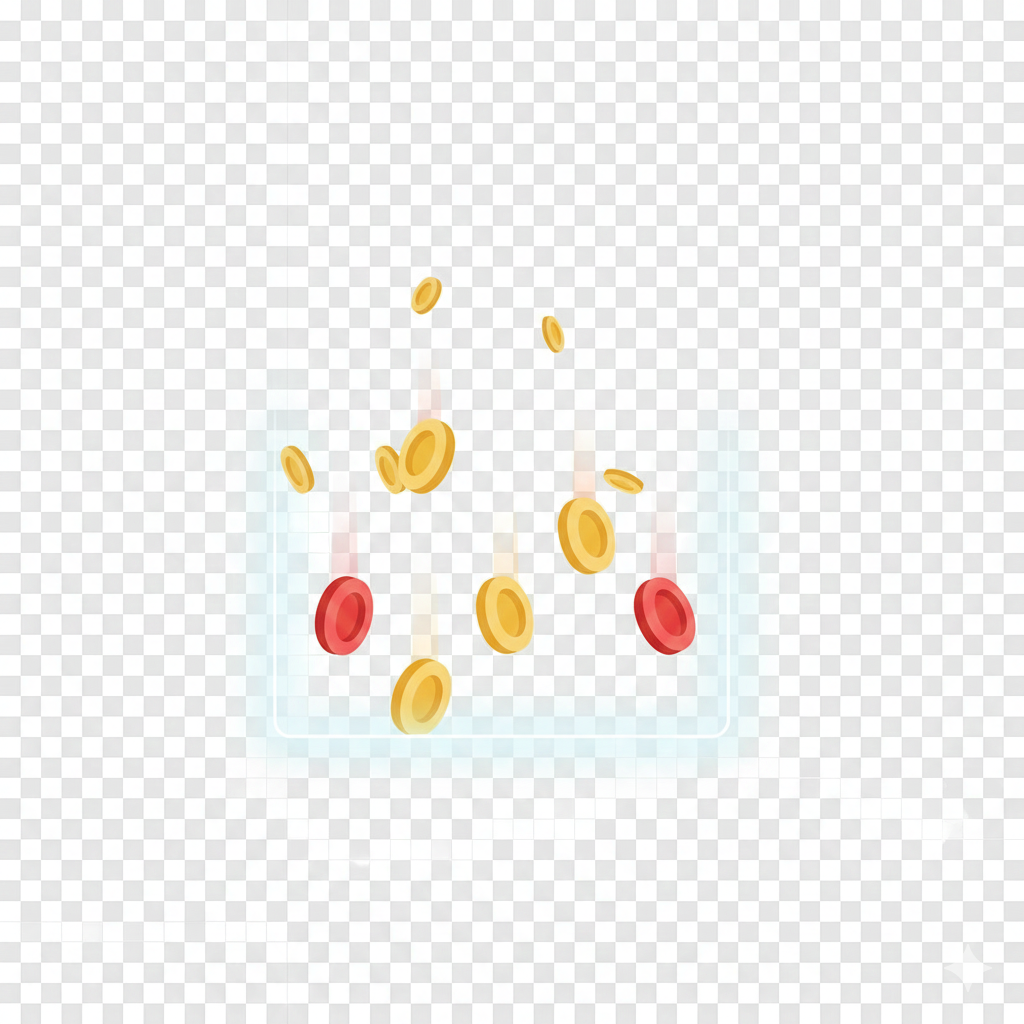
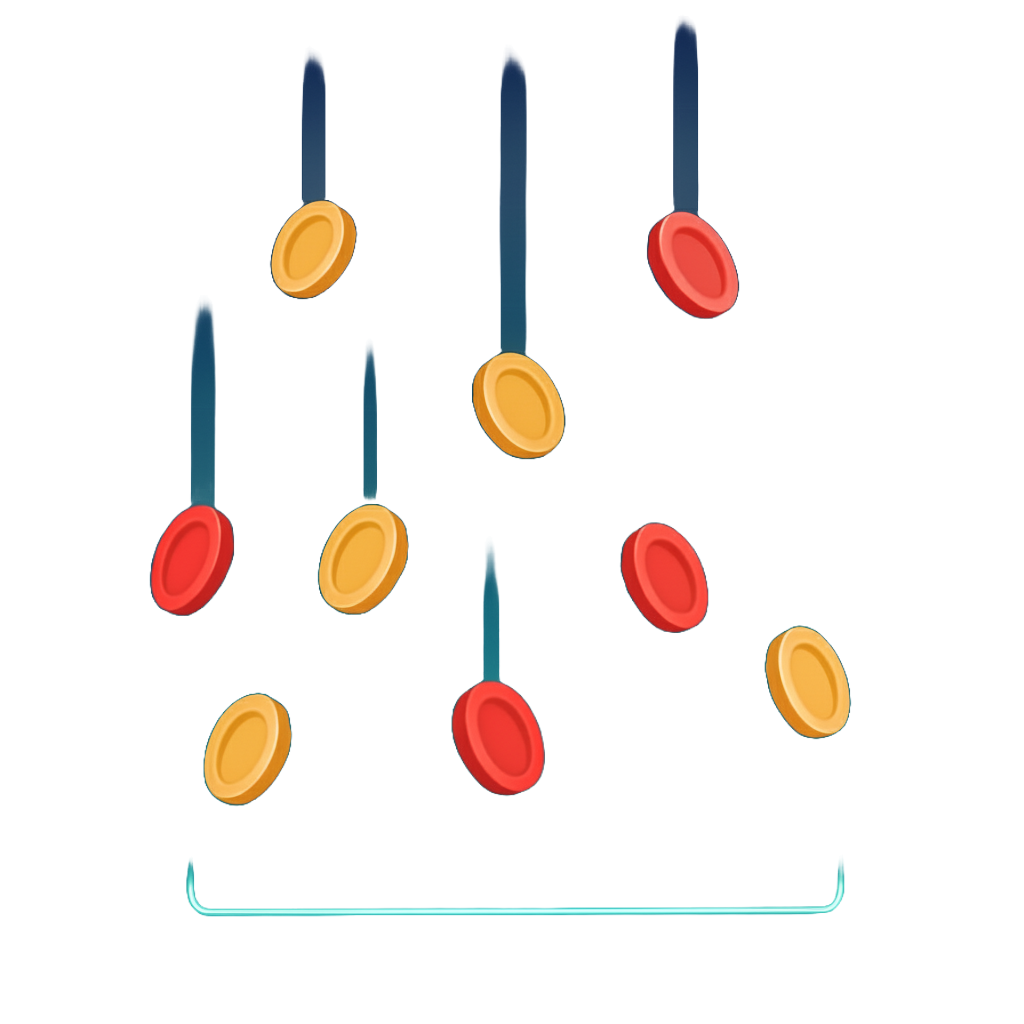
feat:  onbording fixed

diff --git a/lib/app/presentations/onboarding/view/onboarding_view.dart b/lib/app/presentations/onboarding/view/onboarding_view.dart
@@ -1,15 +1,95 @@
-import 'package:connect_four/core/extensions/asset_extension.dart';
 import 'package:flutter/material.dart';
 
-class OnboardingView extends StatelessWidget {
+import 'package:connect_four/app/common/widget/text_title.dart';
+import 'package:connect_four/app/presentations/onboarding/widget/elevated_button_widget.dart';
+import 'package:connect_four/app/presentations/onboarding/widget/page_view_dots.dart';
+import 'package:connect_four/app/data/models/onboardingItems/onboarding_data.dart';
+import 'package:connect_four/core/extensions/asset_extension.dart';
+
+class OnboardingView extends StatefulWidget {
   const OnboardingView({super.key});
+
+  @override
+  State<OnboardingView> createState() => _OnboardingViewState();
+}
+
+class _OnboardingViewState extends State<OnboardingView> {
+  final PageController _pageController = PageController();
+
+  void nextPage() {
+    if (_pageController.page! < onboardingItems.length - 1) {
+      _pageController.nextPage(
+        duration: const Duration(milliseconds: 300),
+        curve: Curves.easeInOut,
+      );
+    } else {
+      // TODO: Home / Login geçişi
+    }
+  }
+
+  @override
+  void dispose() {
+    _pageController.dispose();
+    super.dispose();
+  }
 
   @override
   Widget build(BuildContext context) {
     return Scaffold(
       body: Stack(
         children: [
-          Positioned.fill(child: Image.asset(AssetImages.background.path)),
+          /// BACKGROUND
+          Positioned.fill(
+            child: Image.asset(
+              AssetImages.image.path(AssetType.png),
+              fit: BoxFit.cover,
+            ),
+          ),
+
+          /// PAGE VIEW
+          PageView.builder(
+            controller: _pageController,
+            itemCount: onboardingItems.length,
+            itemBuilder: (context, index) {
+              final item = onboardingItems[index];
+
+              return Column(
+                mainAxisAlignment: MainAxisAlignment.center,
+                children: [
+                  TextTitle(title: item.text),
+                  const SizedBox(height: 60),
+                 SizedBox(
+  width: 240,
+  height: 240,
+  child: FittedBox(
+    fit: BoxFit.contain,
+    child: Image.asset(
+      item.image.path(AssetType.png),fit: BoxFit.contain,           // ← önemli
+    alignment: Alignment.center,
+    ),
+  ),
+),
+
+                ],
+              );
+            },
+          ),
+
+          /// BOTTOM CONTROLS
+          Positioned(
+            bottom: 50,
+            left: 0,
+            right: 0,
+            child: Column(
+              children: [
+                PageViewDots(pageController: _pageController),
+                const SizedBox(height: 60),
+                ElevatedButtonWidget(
+                  onPressed: nextPage,
+                ),
+              ],
+            ),
+          ),
         ],
       ),
     );

diff --git a/lib/app/presentations/onboarding/widget/page_view_dots.dart b/lib/app/presentations/onboarding/widget/page_view_dots.dart
@@ -1,0 +1,23 @@
+import 'package:connect_four/app/data/models/onboardingItems/onboarding_data.dart';
+import 'package:flutter/material.dart';
+import 'package:smooth_page_indicator/smooth_page_indicator.dart';
+
+class PageViewDots extends StatelessWidget {
+  const PageViewDots({super.key, required PageController pageController}) : _pageController = pageController;
+
+  final PageController _pageController;
+
+  @override
+  Widget build(BuildContext context) {
+    return SmoothPageIndicator(
+      controller: _pageController,
+      count: onboardingItems.length,
+      effect: WormEffect(
+        dotWidth: 10,
+        dotHeight: 10,
+        activeDotColor: Colors.white,
+        dotColor: Colors.pink,
+      ),
+    );
+  }
+}

diff --git a/lib/app/data/models/onboardingItems/onboarding_data.dart b/lib/app/data/models/onboardingItems/onboarding_data.dart
@@ -1,0 +1,25 @@
+import 'package:connect_four/core/extensions/asset_extension.dart';
+
+class OnboardingItem {
+  final String text;
+  final AssetImages image;
+
+  const OnboardingItem({
+    required this.text,
+    required this.image,
+  });
+}
+final List<OnboardingItem> onboardingItems = [
+  OnboardingItem(
+    text: "Connect Four Challenge'a Hoşgeldiniz",
+    image: AssetImages.onboarding_1,
+  ),
+  OnboardingItem(
+    text: "Arkadaşlarınla rekabet et",
+    image: AssetImages.onboarding_2,
+  ),
+  OnboardingItem(
+    text: "Kazanmaya hazır mısın ?",
+    image: AssetImages.onboarding_3,
+  ),
+];

diff --git a/lib/app/common/widget/text_title.dart b/lib/app/common/widget/text_title.dart
@@ -1,0 +1,22 @@
+import 'package:flutter/material.dart';
+
+class TextTitle extends StatelessWidget {
+  final String title;
+  const TextTitle({super.key, required this.title});
+
+  @override
+  Widget build(BuildContext context) {
+    return Text(title,
+    textAlign: TextAlign.center,
+      style: TextStyle(
+        fontWeight: FontWeight.w900,
+        fontFamily: "Nunito",
+        color: Colors.white,
+        fontSize: 50,
+        shadows: [
+          Shadow(blurRadius: 20, color: Colors.deepOrangeAccent),
+          Shadow(blurRadius: 40, color: Colors.redAccent),
+        ],
+      ),);
+  }
+}

diff --git a/lib/app/presentations/login/view/login_view.dart b/lib/app/presentations/login/view/login_view.dart
@@ -17,7 +17,7 @@ class LoginView extends StatelessWidget {
         child: Stack(
           children: [
             Positioned.fill(
-              child: Image.asset(AssetImages.background.path, fit: BoxFit.fill),
+              child: Image.asset(AssetImages.background.path(AssetType.png), fit: BoxFit.fill),
             ),
             SizedBox(
               width: double.infinity,

diff --git a/lib/core/extensions/asset_extension.dart b/lib/core/extensions/asset_extension.dart
@@ -1,5 +1,19 @@
-enum AssetImages { background, onboarding_1 }
+enum AssetImages { background, onboarding_1, image, onboarding_2, onboarding_3
+}
+
+enum AssetType {
+  png,
+  svg,
+}
+
 
 extension AssetExtension on AssetImages {
-  String get path => 'assets/image/$name.png';
+  String path(AssetType type) {
+    return 'assets/image/$name.${type.name}';
+  }
 }
+
+
+
+
+

diff --git a/lib/app/presentations/onboarding/widget/elevated_button_widget.dart b/lib/app/presentations/onboarding/widget/elevated_button_widget.dart
@@ -1,0 +1,11 @@
+import 'package:flutter/material.dart';
+
+class ElevatedButtonWidget extends StatelessWidget {
+  final VoidCallback onPressed;
+  const ElevatedButtonWidget({super.key, required this.onPressed, });
+
+  @override
+  Widget build(BuildContext context) {
+    return ElevatedButton(onPressed: onPressed, child: Text("Sonraki"));
+  }
+}

diff --git a/lib/main.dart b/lib/main.dart
@@ -1,4 +1,3 @@
-import 'package:connect_four/app/presentations/login/view/login_view.dart';
 import 'package:connect_four/app/presentations/onboarding/view/onboarding_view.dart';
 import 'package:connect_four/core/helper/nav_helper/navigation_helper.dart';
 import 'package:flutter/material.dart';
